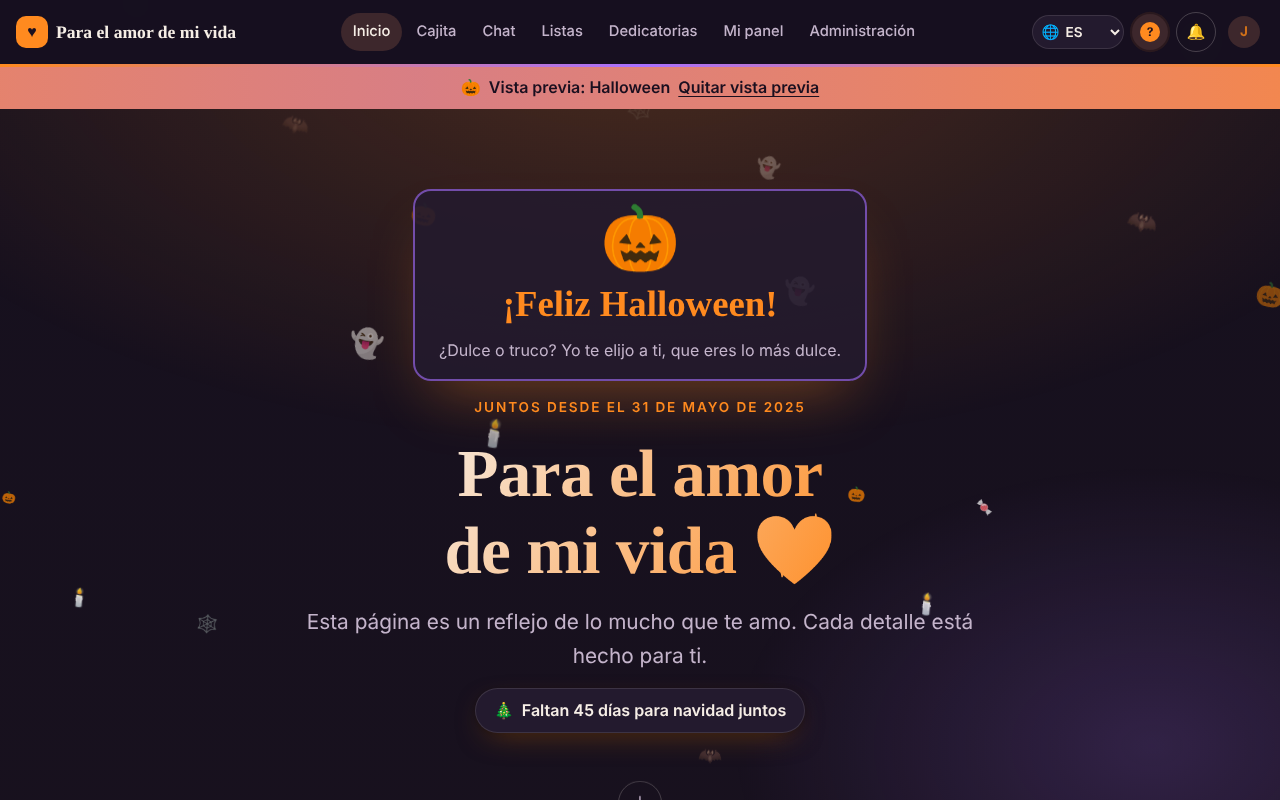
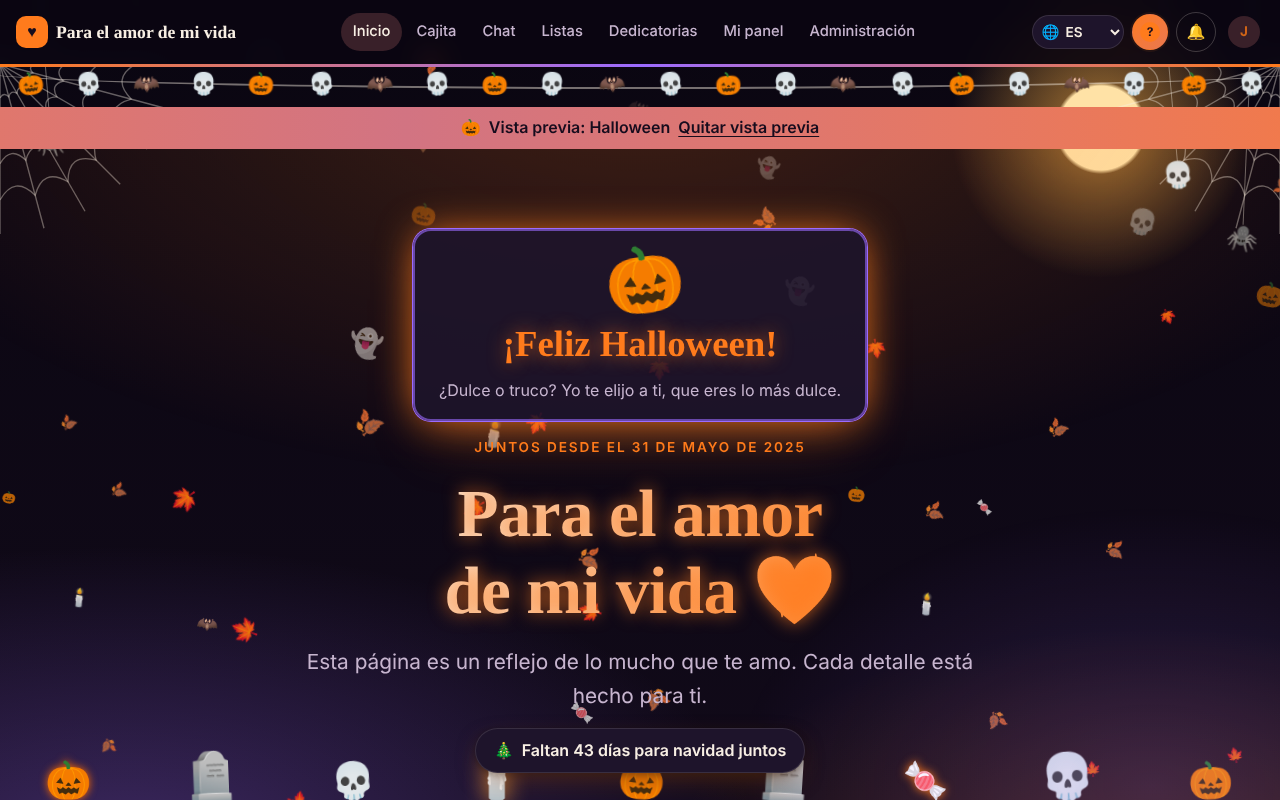
docs: escenas de fechas especiales en README, diagramas, arquitectura y manual

diff --git a/docs/DIAGRAMAS.md b/docs/DIAGRAMAS.md
@@ -916,6 +916,34 @@ flowchart TD
   T --> C["ThemeController → variables CSS en :root"]
 ```
 
+Cómo se arma la escena de cada fecha (`SpecialDayGarland` y `SpecialDayScene`):
+
+```mermaid
+flowchart TD
+  D["Fecha especial del día<br/>style.scene"] --> G["Guirnalda bajo la cabecera<br/>emojis · luces de colores · banderines"]
+  D --> Q{"¿Reducir animaciones?"}
+  Q -- "no" --> M["En movimiento"]
+  Q -- "sí" --> S["Sólo lo quieto"]
+  M --> F["Cae meciéndose: nieve, hojas,<br/>pétalos, confeti de papelitos"]
+  M --> V["Cruza volando: murciélagos,<br/>la bruja, el trineo, estrellas fugaces"]
+  M --> W["Fuegos artificiales (Año Nuevo)"]
+  M & S --> H["Cuelga de un hilo: arañas,<br/>calaveras, campanas, globos"]
+  M & S --> T["Suelo: calabazas, tumbas, calaveras,<br/>árboles, muñecos de nieve, regalos"]
+  M & S --> C["Telarañas en las esquinas (Halloween)"]
+  D --> P["Toda la página: fondo propio (luna, nieve,<br/>confeti, cielo de noche), cabecera,<br/>tarjetas, botones y títulos"]
+  X["Chat a pantalla completa"] -. "sin escena" .-> D
+```
+
+| Fecha | Guirnalda | Cae | Vuela | Cuelga | Suelo |
+| --- | --- | --- | --- | --- | --- |
+| 🎂 Cumpleaños | Banderines | Confeti, 🎊 | — | 🎈 🎀 | 🎁 🎂 🎈 🥳 |
+| 💍 Aniversario | 💍 ❤ 🥂 | 🌹 ❤ ✨ | 🕊 | — | 🌹 🥂 💐 |
+| 💘 San Valentín | ❤ 💕 💘 | 💗 🌸 | 💘 | — | 🌹 💝 💌 🧸 |
+| 💛 Amor y Amistad | Banderines | 🌼 💛 🧡 | 🦋 | — | 🌻 🎁 🌷 |
+| 🎃 Halloween | 🎃 💀 🦇 | 🍂 🍁 | 🦇 🧙♀ | 🕷 💀 + telarañas | 🎃 🪦 💀 🕯 🍬 |
+| 🎄 Navidad | Luces de colores | ❄ nieve | 🛷 | 🔔 ⭐ 🎀 | 🎄 🎁 ☃ 🦌 🎅 |
+| 🎆 Año Nuevo | Luces doradas | ✨ ⭐ + confeti | 🌠 | — | 🍾 🥂 🎉 🕛 + fuegos artificiales |
+
 De dónde sale cada fecha:
 
 ```mermaid

diff --git a/README.md b/README.md
@@ -133,7 +133,17 @@ teléfono de quien mira, toda la app se viste de fiesta para todos: colores
 propios de la fecha (también por encima de los colores que cada persona eligió),
 emojis de fondo del día, una lluvia de bienvenida, el saludo grande en la
 portada («¡Feliz cumpleaños, Camila!») y una franja bajo la cabecera en las
-demás páginas. Las fechas son 🎂 su cumpleaños, 💍 el aniversario (con la fecha
+demás páginas. Además, cada fecha trae su escena animada en todas las páginas
+(menos el chat): una guirnalda bajo la cabecera (calaveras y calabazas,
+luces de Navidad que parpadean, banderines de cumpleaños), cosas que caen
+(nieve, hojas, pétalos, confeti), que vuelan (murciélagos, la bruja, el
+trineo, estrellas fugaces), que cuelgan de un hilo (arañas, campanas, globos),
+telarañas, fuegos artificiales en Año Nuevo y una fila en el suelo (tumbas y
+calaveras, árboles y muñecos de nieve, regalos). El fondo, la cabecera, las
+tarjetas, los botones y los títulos también se visten: luna llena en Halloween,
+cabecera de bastón de caramelo y nieve en Navidad, confeti y arcoíris en el
+cumpleaños, cielo estrellado en Año Nuevo. Con «Reducir animaciones» sólo queda
+la decoración quieta. Las fechas son 🎂 su cumpleaños, 💍 el aniversario (con la fecha
 en que empezó todo), 💘 San Valentín, 💛 Amor y Amistad (tercer sábado de
 septiembre), 🎃 Halloween, 🎄 Navidad (24 y 25) y 🎆 Año Nuevo (31 y 1); si
 coinciden dos, gana el cumpleaños. En **Super → Apariencia → Fechas especiales**

diff --git a/docs/ARQUITECTURA.md b/docs/ARQUITECTURA.md
@@ -171,6 +171,14 @@ cumpleaños (día y mes) y los días que faltan.
   `sections/Hero.tsx` el saludo grande y `SitePage.tsx` los emojis del día y la
   lluvia de bienvenida (una vez por día y pestaña, nada con «Reducir
   animaciones»). Los detalles por fecha están en `styles/layout/_special.scss`.
+- La escena de cada fecha está en `style.scene` (`SpecialScene`: lo que cae,
+  confeti, guirnalda de emojis, luces o banderines, suelo, lo que vuela, lo que
+  cuelga, telarañas y fuegos artificiales). `app/SpecialDayScene.tsx` la
+  dibuja: `SpecialDayGarland` va en el flujo bajo la cabecera y
+  `SpecialDayScene` es una capa fija detrás del contenido, sin clics y con
+  `aria-hidden`. Todo se anima con CSS (`transform` y `opacity`) y las
+  posiciones salen del índice; con «Reducir animaciones» no se pinta lo que
+  cae, vuela o estalla, y lo demás queda quieto. No sale en el chat.
 - `features/admin/theme/SpecialDaysCard.tsx` es la tarjeta de **Apariencia**:
   cumpleaños (a mano o desde el perfil de una cuenta), interruptores y
   «Ver cómo se ve». Los textos están en `i18n/messages/*/special.ts`.

diff --git a/docs/MANUAL_DE_USUARIO.md b/docs/MANUAL_DE_USUARIO.md
@@ -88,7 +88,12 @@ llega al celular cuando la publican. Después de verla queda guardada en
 En tu cumpleaños, nuestro aniversario, San Valentín, Amor y Amistad,
 Halloween, Navidad y Año Nuevo la página entera se viste de fiesta todo el día:
 cambian los colores, los emojis que flotan, aparece un saludo grande en la
-portada y una franja de fiesta arriba en las demás páginas. Al día siguiente
+portada y una franja de fiesta arriba en las demás páginas. Cada fecha trae
+además su decoración animada: en Halloween calaveras, calabazas, murciélagos,
+arañas colgando, telarañas y una luna llena; en Navidad luces de colores que
+parpadean, nieve cayendo, árboles, muñecos de nieve y el trineo cruzando; en tu
+cumpleaños banderines, confeti y globos; en Año Nuevo fuegos artificiales. Si
+activaste «Reducir animaciones» en el pie, la decoración se queda quieta. Al día siguiente
 vuelve sola a como estaba. Mientras dura, se ve igual para todos, aunque hayas
 elegido tus propios colores.
 
